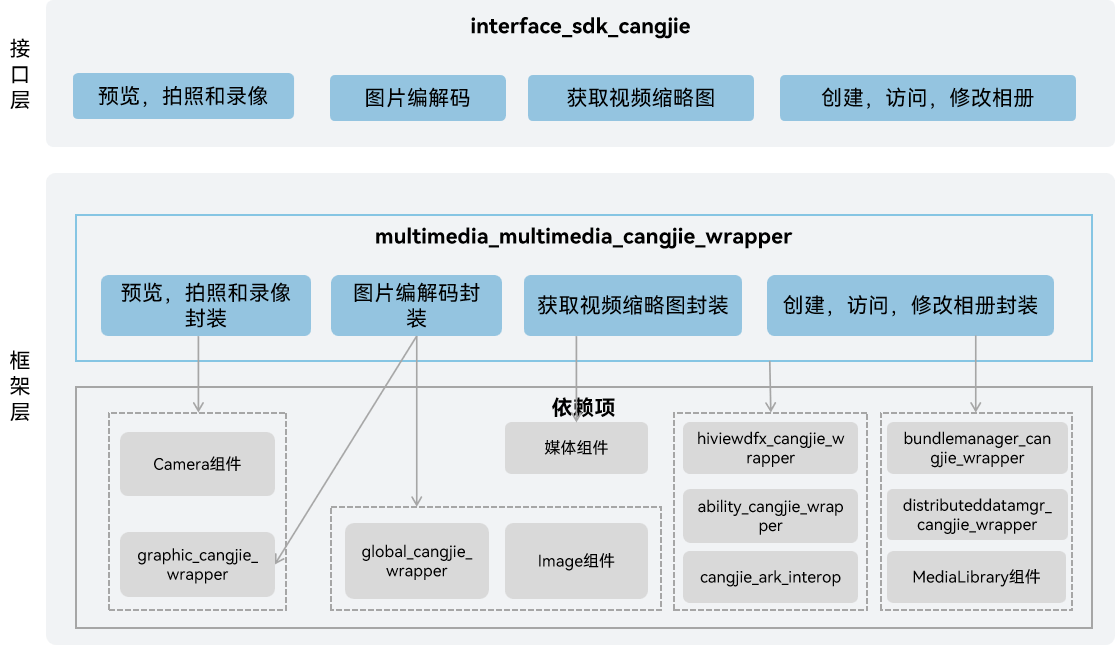
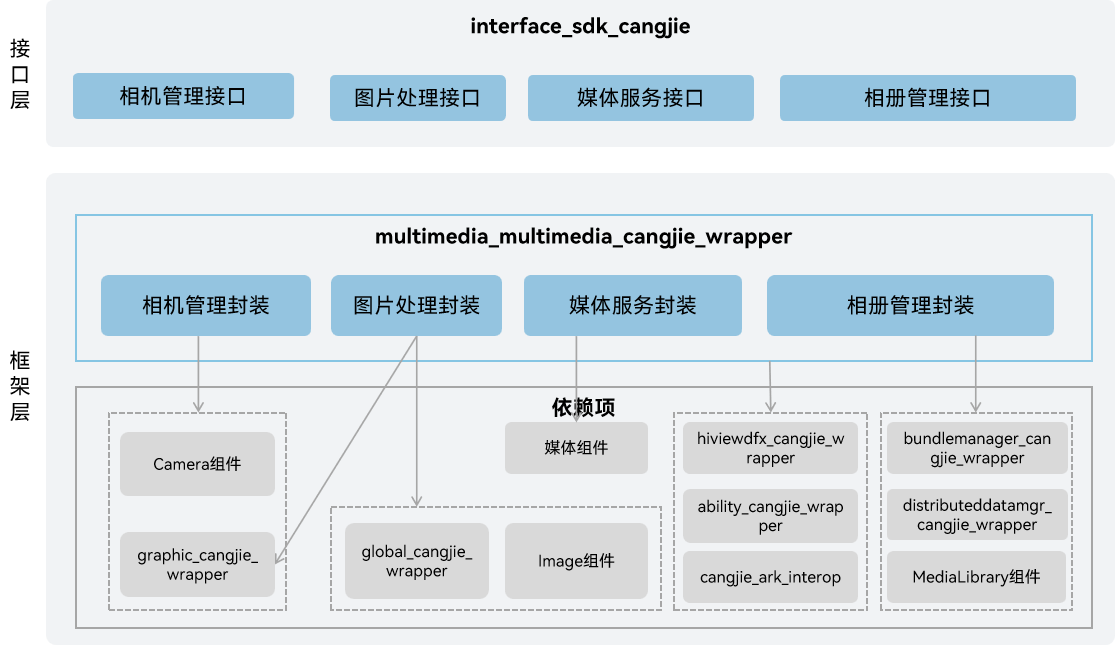
update README

diff --git a/README_zh.md b/README_zh.md
@@ -14,24 +14,24 @@
 
 接口层：
 
-- 预览，拍照和录像：提供相机操作接口，支持预览、拍照、录像。
-- 图片编解码：支持常见图片格式的编解码。
-- 获取视频缩略图：为应用提供获取视频缩略图的功能。
-- 创建，访问，修改相册：支持本地和分布式媒体数据创建，访问，修改相册。
+- 相机管理接口：提供相机操作接口，支持预览、拍照、录像，控制闪光灯和曝光事件，对焦和调焦和视频防抖。
+- 图片处理接口：支持获取图片信息以及常见图片格式的编解码。
+- 媒体服务接口：为应用提供获取视频缩略图的功能。
+- 相册管理接口：支持获取相册及其包含的图片，获取相册属性，修改相册以及监听相册变更。
 
 框架层：
 
-- 预览，拍照和录像封装：仓颉预览，拍照和录像的实现封装，提供预览，拍照和录像能力。
-- 图片编解码封装：仓颉图片编解码的实现封装，提供图片编解码能力。
-- 获取视频缩略图封装：仓颉获取视频缩略图的实现封装，提供获取视频缩略图能力。
-- 创建，访问，修改相册封装：仓颉创建，访问，修改相册的实现封装，提供创建，访问，修改相册能力。
+- 相机管理封装：仓颉相机管理的实现封装，提供预览，拍照和录像，控制闪光灯和曝光事件，对焦和调焦和视频防抖的能力。
+- 图片处理封装：仓颉图片处理的实现封装，提供获取图片信息以及图片编解码的能力。
+- 媒体服务封装：仓颉媒体服务的实现封装，提供获取视频缩略图的能力。
+- 相册管理封装：仓颉相册管理的实现封装，提供获取相册及其包含的图片，获取相册属性，修改相册以及监听相册变更的能力。
 
 架构图中的依赖部件引入说明：
 
-- Camera组件：负责提供相机基础功能，封装C接口提供给仓颉进行互操作。
-- Image组件：负责提供图片基础功能，封装C接口提供给仓颉进行互操作。
-- 媒体组件：负责提供媒体基础功能，封装C接口提供给仓颉进行互操作。
-- MediaLibrary组件：负责提供相册基础功能，封装C接口提供给仓颉进行互操作。
+- Camera组件：负责提供相机基础功能，相机管理封装依赖其提供相机基础功能。
+- Image组件：负责提供图片处理基础功能，图片处理封装依赖其提供图片处理基础功能。
+- 媒体组件：负责提供媒体基础功能，媒体服务封装依赖其提供媒体服务相关功能。
+- MediaLibrary组件：负责提供相册基础功能，相册管理封装依赖其提供操作相册的相关功能。
 - hiviewdfx_cangjie_wrapper：负责提供日志接口，用于在关键路径处打印日志。
 - graphic_cangjie_wrapper：负责提供颜色管理类型定义，用于相机和图片模块相关接口的参数、返回类型。
 - global_cangjie_wrapper：负责提供资源管理接口，用于获取图片资源的接口参数类型。
@@ -70,33 +70,54 @@ foundation/multimedia/multimedia_cangjie_wrapper
 
 当前OS媒体软件仓颉接口提供了以下功能：
 
-- 预览，拍照和录像。
-- 获取图片信息。
-- 图片编解码。
-- 获取视频缩略图。
-- 创建，访问，修改相册。
+- 相机管理：
+  - 预览、拍照和录像。
+  - 控制闪光灯和曝光事件。
+  - 对焦和调焦。
+  - 视频防抖。
 
-Camera相关API请参见[相机管理](https://gitcode.com/openharmony-sig/arkcompiler_cangjie_ark_interop/blob/master/doc/API_Reference/source_zh_cn/apis/CameraKit/cj-apis-multimedia-camera.md)，相关指导请参见[相机开发指南](https://gitcode.com/openharmony-sig/arkcompiler_cangjie_ark_interop/blob/master/doc/Dev_Guide/source_zh_cn/media/camera/cj-camera-preparation.md)。
+- 图片处理：
+  - 获取图片信息。
+  - 图片编解码。
 
-Image相关API请参见[图片处理](https://gitcode.com/openharmony-sig/arkcompiler_cangjie_ark_interop/blob/master/doc/API_Reference/source_zh_cn/apis/ImageKit/cj-apis-image.md)，相关指导请参见[图片开发指南](https://gitcode.com/openharmony-sig/arkcompiler_cangjie_ark_interop/blob/master/doc/Dev_Guide/source_zh_cn/media/image/cj-image-overview.md)。
+- 媒体服务：
+  - 获取视频缩略图。
 
-Media相关API请参见[媒体服务](https://gitcode.com/openharmony-sig/arkcompiler_cangjie_ark_interop/blob/master/doc/API_Reference/source_zh_cn/apis/MediaKit/cj-apis-multimedia_media.md)，相关指导请参见[媒体开发指南](https://gitcode.com/openharmony-sig/arkcompiler_cangjie_ark_interop/blob/master/doc/Dev_Guide/source_zh_cn/media/media/cj-media-kit-intro.md)。
+- 相册管理：
+  - 获取相册及其包含的图片。
+  - 获取相册属性。
+  - 修改相册。
+  - 监听相册变更。
 
-MediaLibrary相关API请参见[相册管理模块](https://gitcode.com/openharmony-sig/arkcompiler_cangjie_ark_interop/blob/master/doc/API_Reference/source_zh_cn/apis/MediaLibraryKit/cj-apis-multimedia-photo_accesshelper.md)，相关指导请参见[相册开发指南](https://gitcode.com/openharmony-sig/arkcompiler_cangjie_ark_interop/blob/master/doc/Dev_Guide/source_zh_cn/media/medialibrary/cj-photoAccessHelper-systemAlbum-guidelines.md)。
+相机管理相关API请参见[相机管理](https://gitcode.com/openharmony-sig/arkcompiler_cangjie_ark_interop/blob/master/doc/API_Reference/source_zh_cn/apis/CameraKit/cj-apis-multimedia-camera.md)，相关指导请参见[相机开发指南](https://gitcode.com/openharmony-sig/arkcompiler_cangjie_ark_interop/blob/master/doc/Dev_Guide/source_zh_cn/media/camera/cj-camera-preparation.md)。
+
+图片处理相关API请参见[图片处理](https://gitcode.com/openharmony-sig/arkcompiler_cangjie_ark_interop/blob/master/doc/API_Reference/source_zh_cn/apis/ImageKit/cj-apis-image.md)，相关指导请参见[图片开发指南](https://gitcode.com/openharmony-sig/arkcompiler_cangjie_ark_interop/blob/master/doc/Dev_Guide/source_zh_cn/media/image/cj-image-overview.md)。
+
+媒体服务相关API请参见[媒体服务](https://gitcode.com/openharmony-sig/arkcompiler_cangjie_ark_interop/blob/master/doc/API_Reference/source_zh_cn/apis/MediaKit/cj-apis-multimedia_media.md)，相关指导请参见[媒体开发指南](https://gitcode.com/openharmony-sig/arkcompiler_cangjie_ark_interop/blob/master/doc/Dev_Guide/source_zh_cn/media/media/cj-media-kit-intro.md)。
+
+相册管理相关API请参见[相册管理模块](https://gitcode.com/openharmony-sig/arkcompiler_cangjie_ark_interop/blob/master/doc/API_Reference/source_zh_cn/apis/MediaLibraryKit/cj-apis-multimedia-photo_accesshelper.md)，相关指导请参见[相册开发指南](https://gitcode.com/openharmony-sig/arkcompiler_cangjie_ark_interop/blob/master/doc/Dev_Guide/source_zh_cn/media/medialibrary/cj-photoAccessHelper-systemAlbum-guidelines.md)。
 
 ## 约束
 
 部分音视频格式的硬件编码、解码功能依赖设备的支持。
 
-与ArkTS提供的API能力相比，暂不支持以下功能：
+与ArkTS提供的API能力相比：
 
-- 多图对象。
-- 图像元数据。
-- 音视频播放。
-- 音视频录制。
-- 视频转码。
-- 获取音视频元数据。
-- 屏幕录制。
+- 相机管理暂不支持以下功能：
+  - 安全相机。
+
+- 图片处理暂不支持以下功能：
+  - 多图对象。
+  - 图像元数据。
+
+- 媒体服务暂不支持以下功能：
+  - 音视频播放。
+  - 音视频录制。
+  - 视频转码。
+  - 获取音视频元数据。
+  - 屏幕录制。
+
+- 暂不支持音频服务、音视频编解码服务、音视频播控服务、数字版权保护服务、铃声服务和统一扫码服务。
 
 ## 参与贡献
 

diff --git a/README.md b/README.md
@@ -14,17 +14,17 @@ As shown in the architecture diagram:
 
 Interface:
 
-- Preview, take photos and videos: Provide a camera operation interface to support preview, take photos and record videos.
-- Image codec: Supports the encoding and decoding of common image formats.
-- Get video thumbnails: Provide apps with the ability to get video thumbnails.
-- Create, access, modify albums: Supports local and distributed media data creation, access, and modification of albums.
+- Camera Management Interface: Provide a camera operation interface to support preview, take photos and record videos.
+- Image Process Interface: Supports the encoding and decoding of common image formats.
+- Media Services Interface: Provide apps with the ability to get video thumbnails.
+- Photo Album Management Interface: Supports local and distributed media data creation, access, and modification of albums.
 
 Framework:
 
-- Preview, take photos and videos wrapper: Provides Implementation encapsulation of Cangjie Preview, take photos and videos, providing Preview, take photos and videos capabilities.
-- Image codec wrapper: Provides Implementation encapsulation of Cangjie Image codec, providing Image codec capabilities.
-- Get video thumbnails wrapper: Provides Implementation encapsulation of Cangjie Get video thumbnails, providing Get video thumbnails capabilities.
-- Create, access, modify albums wrapper: Provides Implementation encapsulation of Cangjie Create, access, modify albums, providing Create, access, modify albums capabilities.
+- Camera Management Wrapper: Provides Implementation encapsulation of Cangjie Preview, take photos and videos, providing Preview, take photos and videos capabilities.
+- Image Process Wrapper: Provides Implementation encapsulation of Cangjie Image codec, providing Image codec capabilities.
+- Media Services Wrapper: Provides Implementation encapsulation of Cangjie Get video thumbnails, providing Get video thumbnails capabilities.
+- Photo Album Management Wrapper: Provides Implementation encapsulation of Cangjie Create, access, modify albums, providing Create, access, modify albums capabilities.
 
 - Explanation of Dependencies in the Architecture Diagram:
 
@@ -76,27 +76,36 @@ The current OS media software Cangjie interface provides the following functions
 - Get video thumbnails.
 - Create, access, modify albums.
 
-See Camera APIs[Camera Management](https://gitcode.com/openharmony-sig/arkcompiler_cangjie_ark_interop/blob/master/doc/API_Reference/source_en/apis/CameraKit/cj-apis-multimedia-camera.md). For guidance, please refer to[Camera Development Guide](https://gitcode.com/openharmony-sig/arkcompiler_cangjie_ark_interop/blob/master/doc/Dev_Guide/source_en/media/camera/cj-camera-overview.md).
+See Camera Management APIs[Camera Management](https://gitcode.com/openharmony-sig/arkcompiler_cangjie_ark_interop/blob/master/doc/API_Reference/source_en/apis/CameraKit/cj-apis-multimedia-camera.md). For guidance, please refer to[Camera Development Guide](https://gitcode.com/openharmony-sig/arkcompiler_cangjie_ark_interop/blob/master/doc/Dev_Guide/source_en/media/camera/cj-camera-overview.md).
 
-See Image APIs[Image Processing](https://gitcode.com/openharmony-sig/arkcompiler_cangjie_ark_interop/blob/master/doc/API_Reference/source_en/apis/ImageKit/cj-apis-image.md). For guidance, please refer to[Image Development Guide](https://gitcode.com/openharmony-sig/arkcompiler_cangjie_ark_interop/blob/master/doc/Dev_Guide/source_en/media/image/cj-image-overview.md).
+See Image Process APIs[Image Process](https://gitcode.com/openharmony-sig/arkcompiler_cangjie_ark_interop/blob/master/doc/API_Reference/source_en/apis/ImageKit/cj-apis-image.md). For guidance, please refer to[Image Development Guide](https://gitcode.com/openharmony-sig/arkcompiler_cangjie_ark_interop/blob/master/doc/Dev_Guide/source_en/media/image/cj-image-overview.md).
 
-See Media APIs[Media Service](https://gitcode.com/openharmony-sig/arkcompiler_cangjie_ark_interop/blob/master/doc/API_Reference/source_en/apis/MediaKit/cj-apis-multimedia_media.md). For guidance, please refer to[Media Development Guide](https://gitcode.com/openharmony-sig/arkcompiler_cangjie_ark_interop/blob/master/doc/Dev_Guide/source_en/media/media/cj-media-kit-intro.md).
+See Media Services APIs[Media Services](https://gitcode.com/openharmony-sig/arkcompiler_cangjie_ark_interop/blob/master/doc/API_Reference/source_en/apis/MediaKit/cj-apis-multimedia_media.md). For guidance, please refer to[Media Development Guide](https://gitcode.com/openharmony-sig/arkcompiler_cangjie_ark_interop/blob/master/doc/Dev_Guide/source_en/media/media/cj-media-kit-intro.md).
 
-See MediaLibrary APIs[Photo Album Management Module](https://gitcode.com/openharmony-sig/arkcompiler_cangjie_ark_interop/blob/master/doc/API_Reference/source_en/apis/MediaLibraryKit/cj-apis-multimedia-photo_accesshelper.md). For guidance, please refer to[Photo Album Development Guide](https://gitcode.com/openharmony-sig/arkcompiler_cangjie_ark_interop/blob/master/doc/Dev_Guide/source_en/media/medialibrary/cj-photoAccessHelper-systemAlbum-guidelines.md).
+See Photo Album Management APIs[Photo Album Management](https://gitcode.com/openharmony-sig/arkcompiler_cangjie_ark_interop/blob/master/doc/API_Reference/source_en/apis/MediaLibraryKit/cj-apis-multimedia-photo_accesshelper.md). For guidance, please refer to[Photo Album Development Guide](https://gitcode.com/openharmony-sig/arkcompiler_cangjie_ark_interop/blob/master/doc/Dev_Guide/source_en/media/medialibrary/cj-photoAccessHelper-systemAlbum-guidelines.md).
 
 ## Constraints
 
 Hardware-based decoding and encoding functions of audio and video data are device-specific.
 
-Compared with ArkTS, the following functions are not supported at the moment:
+Compared with ArkTS:
 
-- Multi-graph objects.
-- Image metadata.
-- Audio and video playback.
-- Audio and video recording.
-- Video transcoding.
-- Get audio and video metadata.
-- Screen recording.
+- In Camera Management, the following functions are not supported at the moment:
+  - Flashlight mode.
+  - Settings for picture quality, color space parameters, etc.
+
+- In Image Process, the following functions are not supported at the moment:
+  - Multi-graph objects.
+  - Image metadata.
+
+- In Media Services, the following functions are not supported at the moment:
+  - Audio and video playback.
+  - Audio and video recording.
+  - Video transcoding.
+  - Get audio and video metadata.
+  - Screen recording.
+
+- Audio Kit, AVCodec Kit, AVSession Kit, DRM Kit, Ringtone Kit and Scan Kit are not supported temporarily.
 
 ## Code Contribution
 
